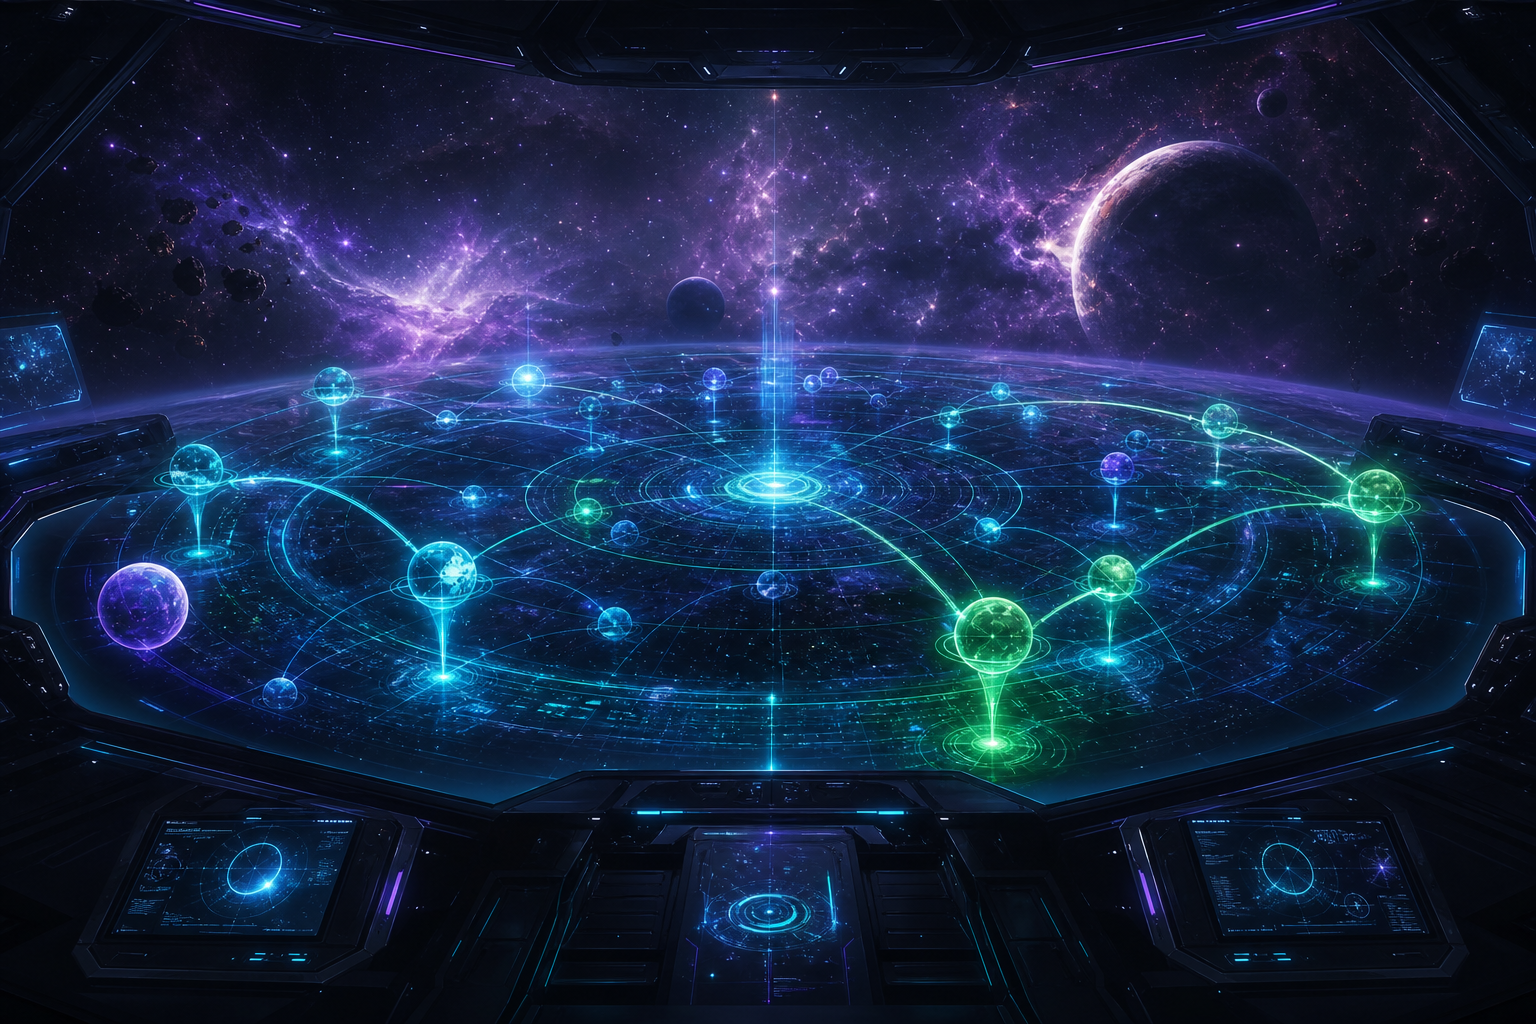
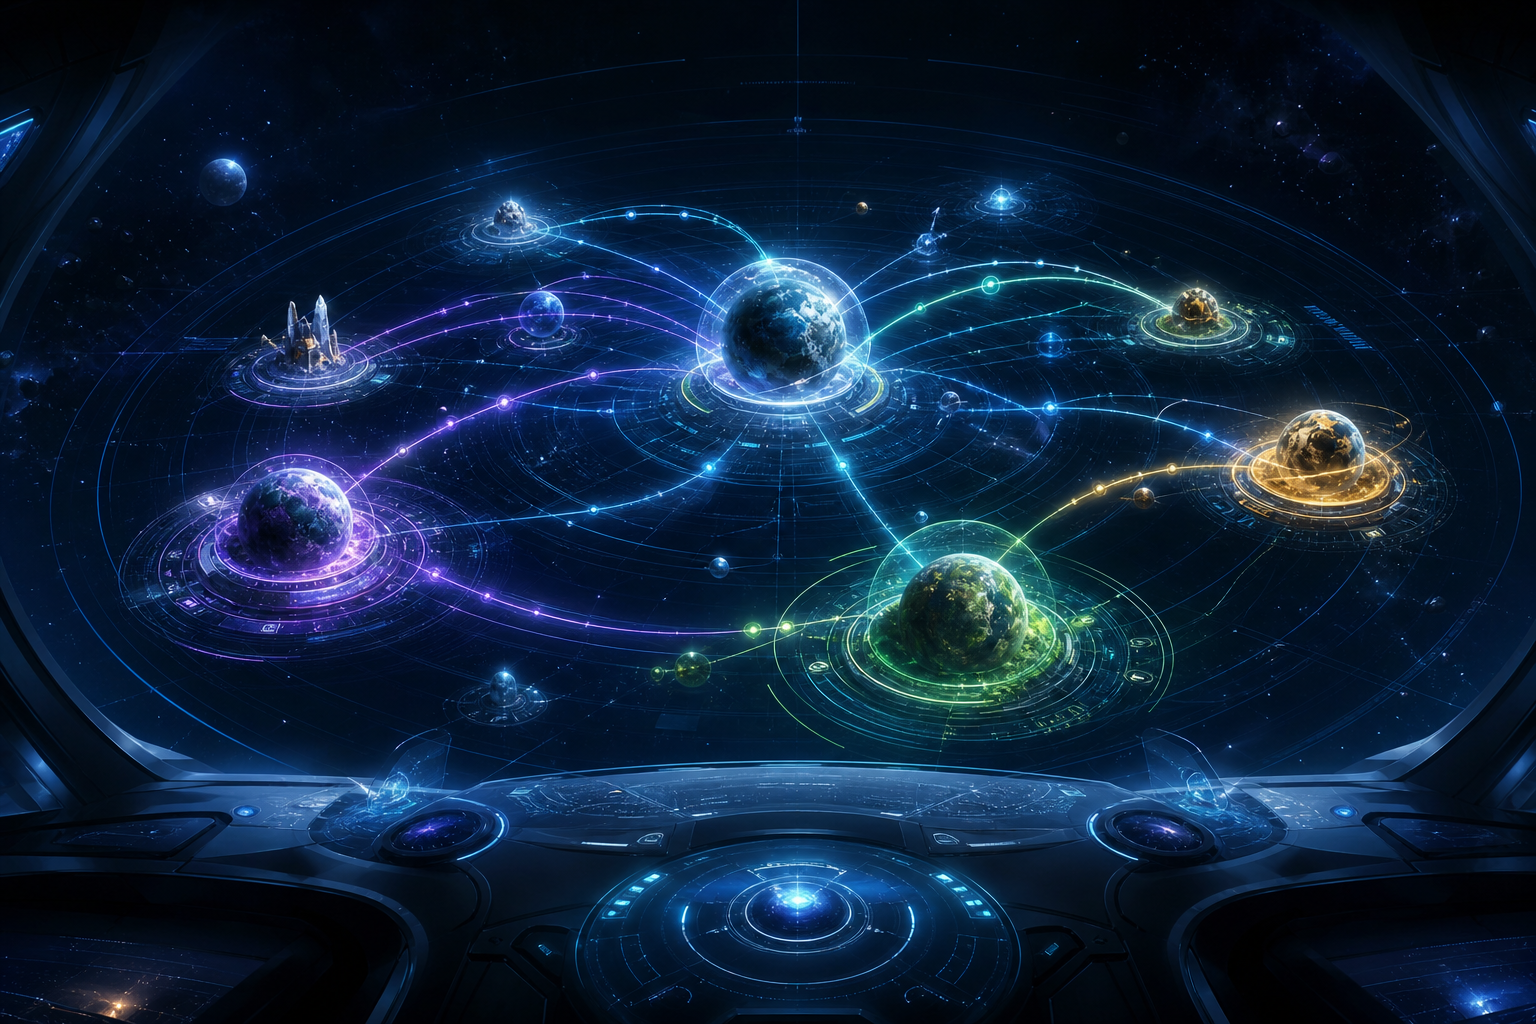
Fix header layout and restore hero artwork.

diff --git a/apps/web/src/components/Shell.tsx b/apps/web/src/components/Shell.tsx
@@ -25,7 +25,7 @@ function NavLink({ href, label }: { href: string; label: string }) {
     <Link
       href={href}
       className={cn(
-        "relative rounded-xl px-3 py-2 text-sm transition",
+        "relative shrink-0 rounded-xl px-2.5 py-2 text-xs transition xl:px-3 xl:text-sm",
         active ? "text-fg" : "text-fg-muted hover:text-fg"
       )}
     >
@@ -44,20 +44,22 @@ function NavLink({ href, label }: { href: string; label: string }) {
 function Brand() {
   const { t } = useLocale();
   return (
-    <div className="flex items-center gap-3">
-      <div className="relative h-12 w-12 shrink-0">
-        <div className="absolute -inset-1 rounded-full bg-[conic-gradient(from_180deg,rgb(var(--primary)),rgb(var(--violet)),rgb(var(--accent)),rgb(var(--gold)),rgb(var(--primary)))] opacity-75 blur-md" />
+    <div className="flex min-w-0 items-center gap-3">
+      <div className="relative h-14 w-14 shrink-0">
+        <div className="absolute -inset-1.5 rounded-full bg-[conic-gradient(from_180deg,rgb(var(--primary)),rgb(var(--violet)),rgb(var(--accent)),rgb(var(--gold)),rgb(var(--primary)))] opacity-85 blur-md" />
         <div className="absolute inset-0 rounded-full border border-white/15 bg-black/60 shadow-[0_0_32px_rgb(var(--primary)_/_0.3)]" />
         <img
           src="/symbio-logo.svg"
           alt="SYMBIO"
-          className="relative h-12 w-12 rounded-full object-contain p-1.5 ring-1 ring-white/15"
+          className="relative h-14 w-14 rounded-full object-contain p-0.5 ring-1 ring-white/15"
         />
         <div className="pointer-events-none absolute inset-0 rounded-full border border-primary/25 orbit-ring" />
       </div>
       <div className="leading-tight min-w-0">
-        <div className="text-sm font-semibold tracking-[0.28em]">SYMBIO</div>
-        <div className="hidden text-[10px] uppercase tracking-[0.22em] text-fg-muted sm:block">{t.brandTagline}</div>
+        <div className="text-base font-semibold tracking-[0.26em] text-fg">SYMBIO</div>
+        <div className="hidden max-w-[8.5rem] truncate text-[10px] uppercase tracking-[0.2em] text-fg-muted sm:block">
+          {t.brandTagline}
+        </div>
       </div>
     </div>
   );
@@ -87,9 +89,6 @@ export function Shell({ children }: { children: React.ReactNode }) {
   const nav = [...NAV_PUBLIC];
   if (user && (hasRole(user, "creator") || hasRole(user, "site_owner"))) {
     nav.push({ href: "/studio", label: t.nav.studio });
-  }
-  if (user) {
-    nav.push({ href: "/profile", label: t.nav.profile });
   }
   if (user && hasRole(user, "admin")) {
     nav.push({ href: "/admin/dashboard", label: t.nav.admin });
@@ -165,21 +164,21 @@ export function Shell({ children }: { children: React.ReactNode }) {
             : "border-b border-transparent bg-transparent"
         )}
       >
-        <div className="mx-auto flex max-w-7xl items-center justify-between gap-2 px-3 py-3 sm:gap-4 sm:px-4 min-w-0">
+        <div className="mx-auto flex w-full max-w-[1480px] items-center gap-3 px-3 py-3 sm:px-4">
           <Link
             href="/"
-            className="min-w-0 shrink rounded-2xl focus:outline-none focus-visible:ring-2 focus-visible:ring-primary/40"
+            className="shrink-0 rounded-2xl focus:outline-none focus-visible:ring-2 focus-visible:ring-primary/40"
           >
             <Brand />
           </Link>
 
-          <nav className="hidden items-center gap-0.5 rounded-full border border-white/10 bg-black/30 p-1.5 backdrop-blur-xl lg:flex">
+          <nav className="nav-scroll hidden min-w-0 flex-1 items-center gap-0.5 overflow-x-auto rounded-full border border-white/10 bg-black/30 p-1.5 backdrop-blur-xl lg:flex">
             {nav.map((n) => (
               <NavLink key={n.href} href={n.href} label={n.label} />
             ))}
           </nav>
 
-          <div className="flex shrink-0 items-center gap-1 sm:gap-2">
+          <div className="ml-auto flex shrink-0 items-center gap-1 sm:gap-2">
             <div className="hidden xl:block">
               <ModeSwitch />
             </div>
@@ -208,19 +207,22 @@ export function Shell({ children }: { children: React.ReactNode }) {
                 {tokenBalance !== null ? (
                   <Link
                     href="/billing"
-                    className="hidden rounded-full border border-primary/25 bg-primary/10 px-2.5 py-1 text-xs font-medium text-primary sm:inline-flex"
+                    className="hidden rounded-full border border-primary/25 bg-primary/10 px-2.5 py-1 text-xs font-medium text-primary 2xl:inline-flex"
                   >
                     {tokenBalance} {t.rewards.tokens}
                   </Link>
                 ) : null}
-                <Link href="/profile" className="hidden max-w-[8rem] truncate text-sm text-fg-muted hover:text-fg md:block">
+                <Link
+                  href="/profile"
+                  className="hidden max-w-[7rem] truncate rounded-full border border-white/10 bg-white/5 px-2.5 py-1.5 text-xs text-fg-muted hover:text-fg lg:block"
+                >
                   @{user.nickname}
                 </Link>
                 <Button
                   size="sm"
-                  variant="ghost"
+                  variant="secondary"
                   onClick={logout}
-                  className="hidden px-2.5 md:inline-flex"
+                  className="inline-flex px-3"
                   aria-label={t.nav.signOut}
                 >
                   {t.nav.signOut}

diff --git a/apps/web/src/app/globals.css b/apps/web/src/app/globals.css
@@ -32,6 +32,14 @@
   top: var(--header-height);
 }
 
+.nav-scroll {
+  scrollbar-width: none;
+}
+
+.nav-scroll::-webkit-scrollbar {
+  display: none;
+}
+
 @media (max-width: 1023px) {
   :root {
     --bottom-nav-offset: 88px;

diff --git a/apps/web/src/components/immersive/HeroScene.tsx b/apps/web/src/components/immersive/HeroScene.tsx
@@ -7,7 +7,7 @@ import * as THREE from "three";
 import { useLocale } from "@/components/LocaleProvider";
 import { ecosystemServers } from "@/lib/ecosystem";
 
-const DEFAULT_HERO_MEDIA = "/symbio-hero-world-radar.svg";
+const DEFAULT_HERO_MEDIA = "/symbio-hero-world-radar.png";
 /** Optional video/GIF override — set NEXT_PUBLIC_HERO_MEDIA=/hero-loop.webm */
 const HERO_MEDIA = process.env.NEXT_PUBLIC_HERO_MEDIA || DEFAULT_HERO_MEDIA;
 